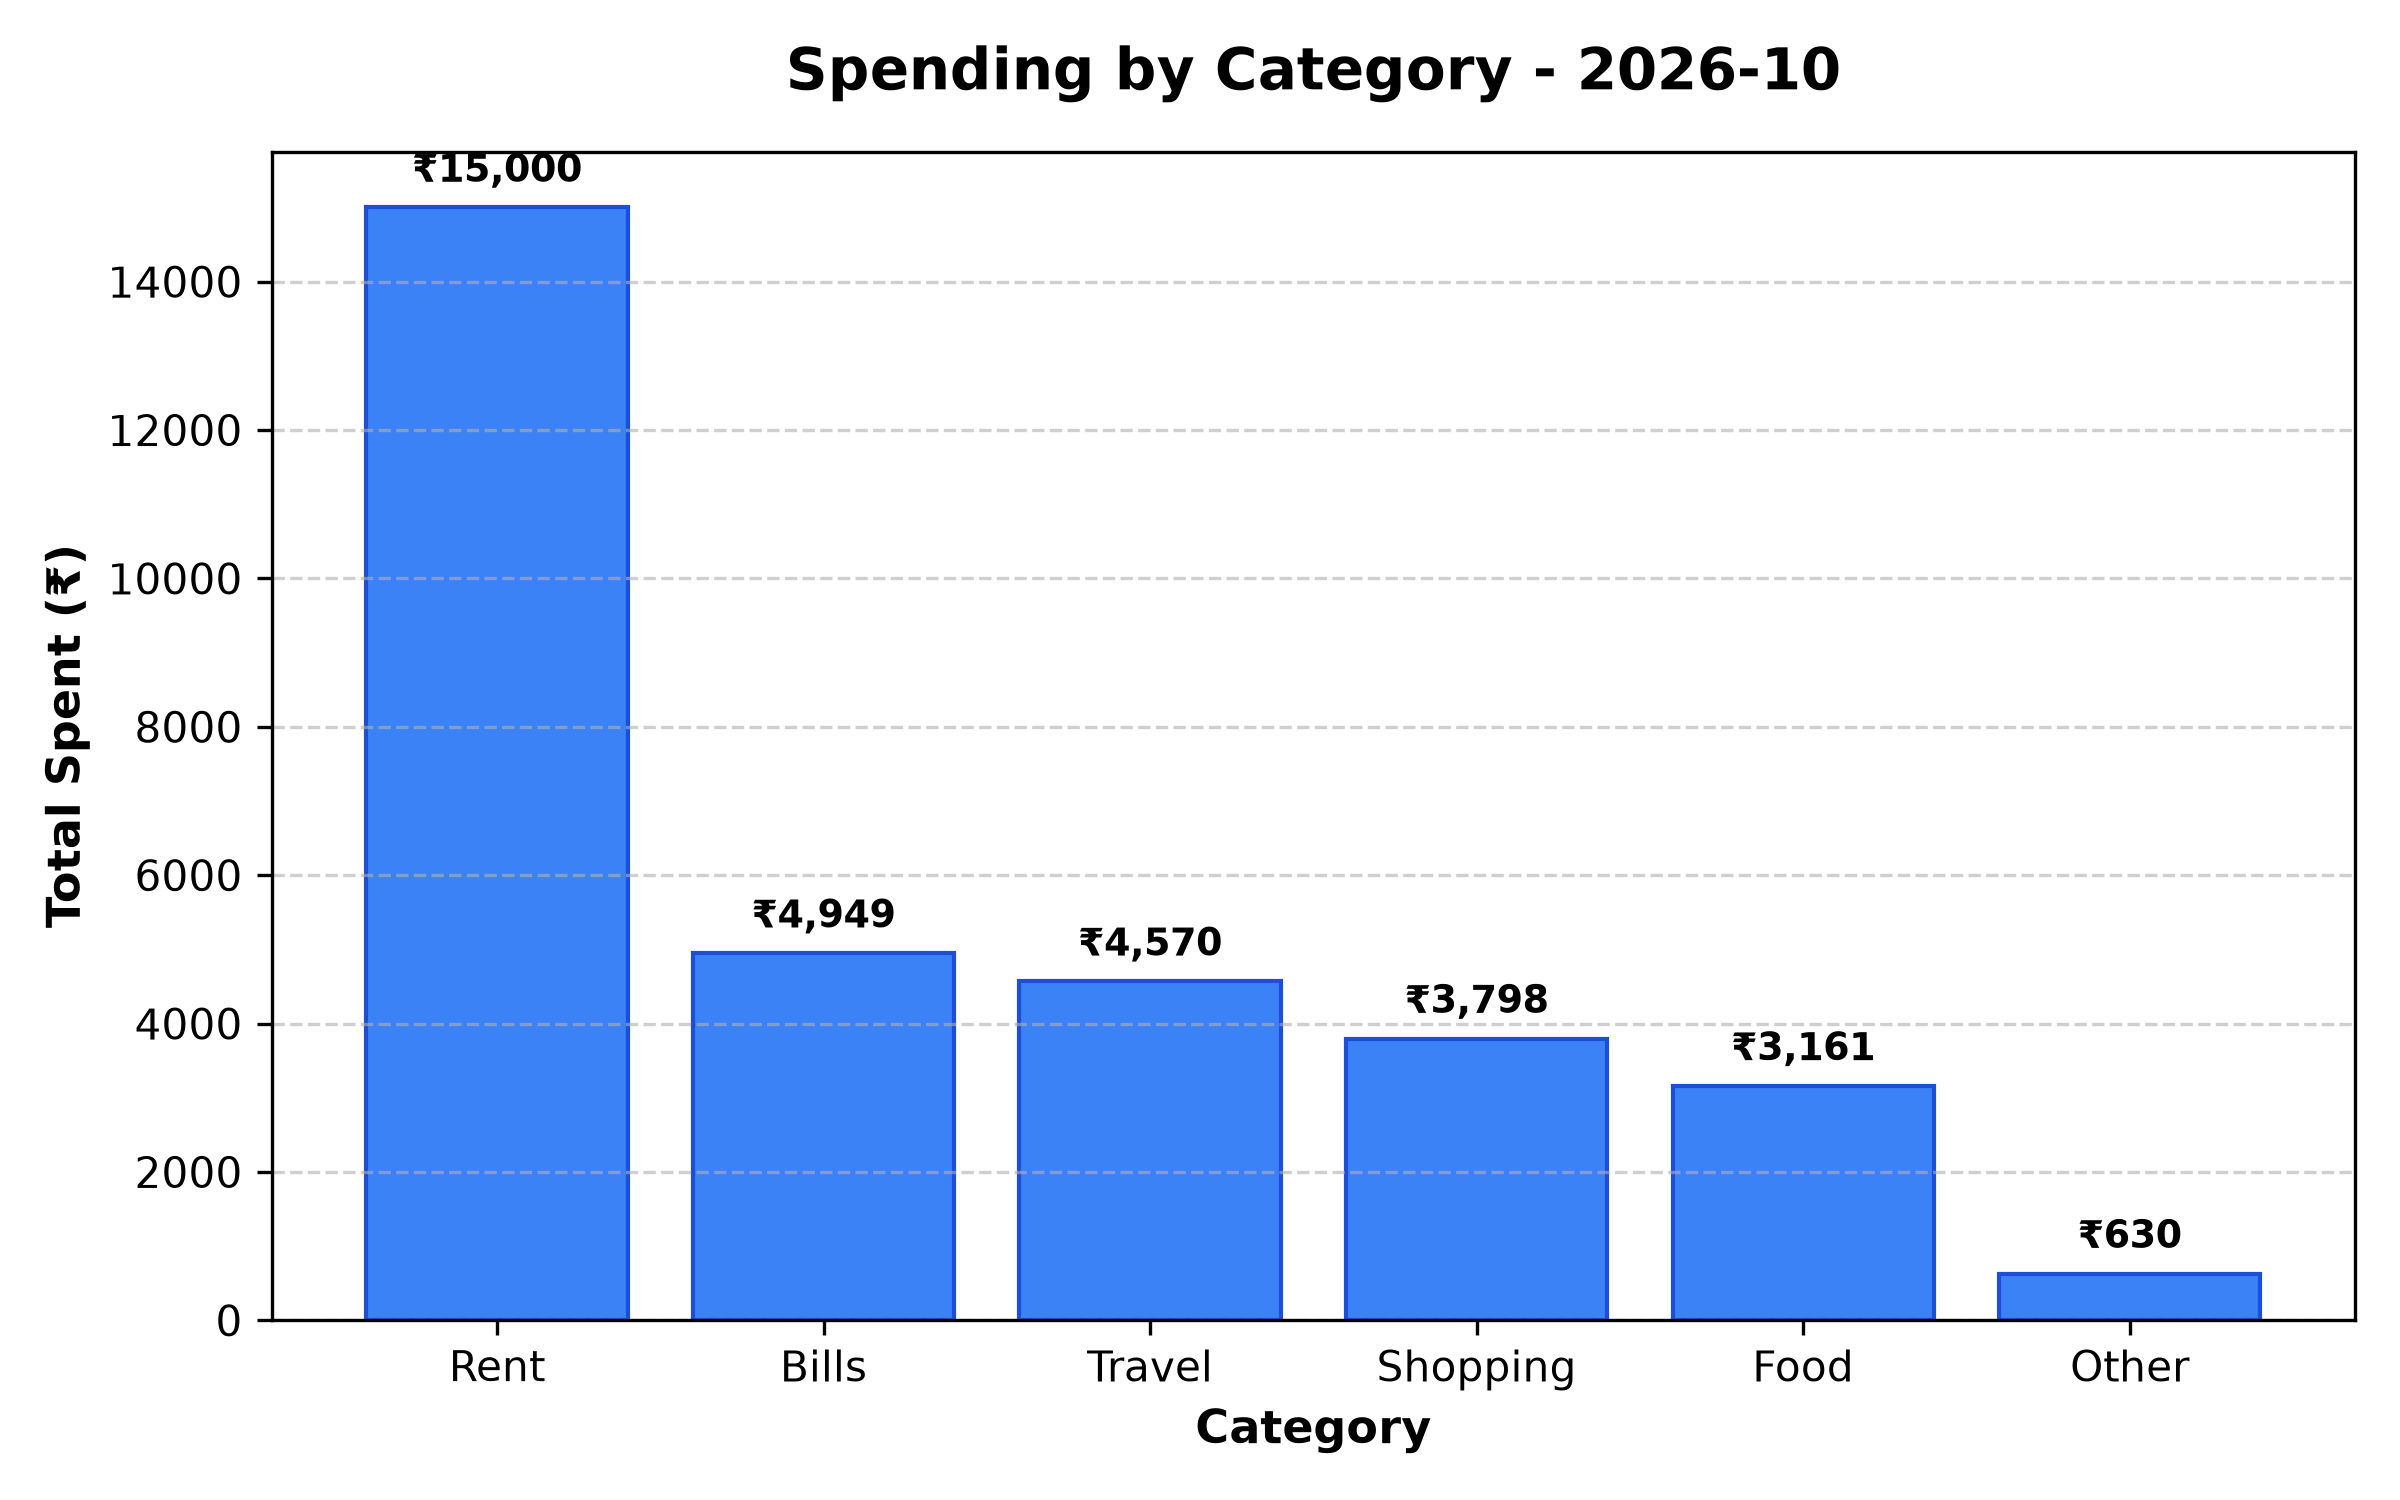
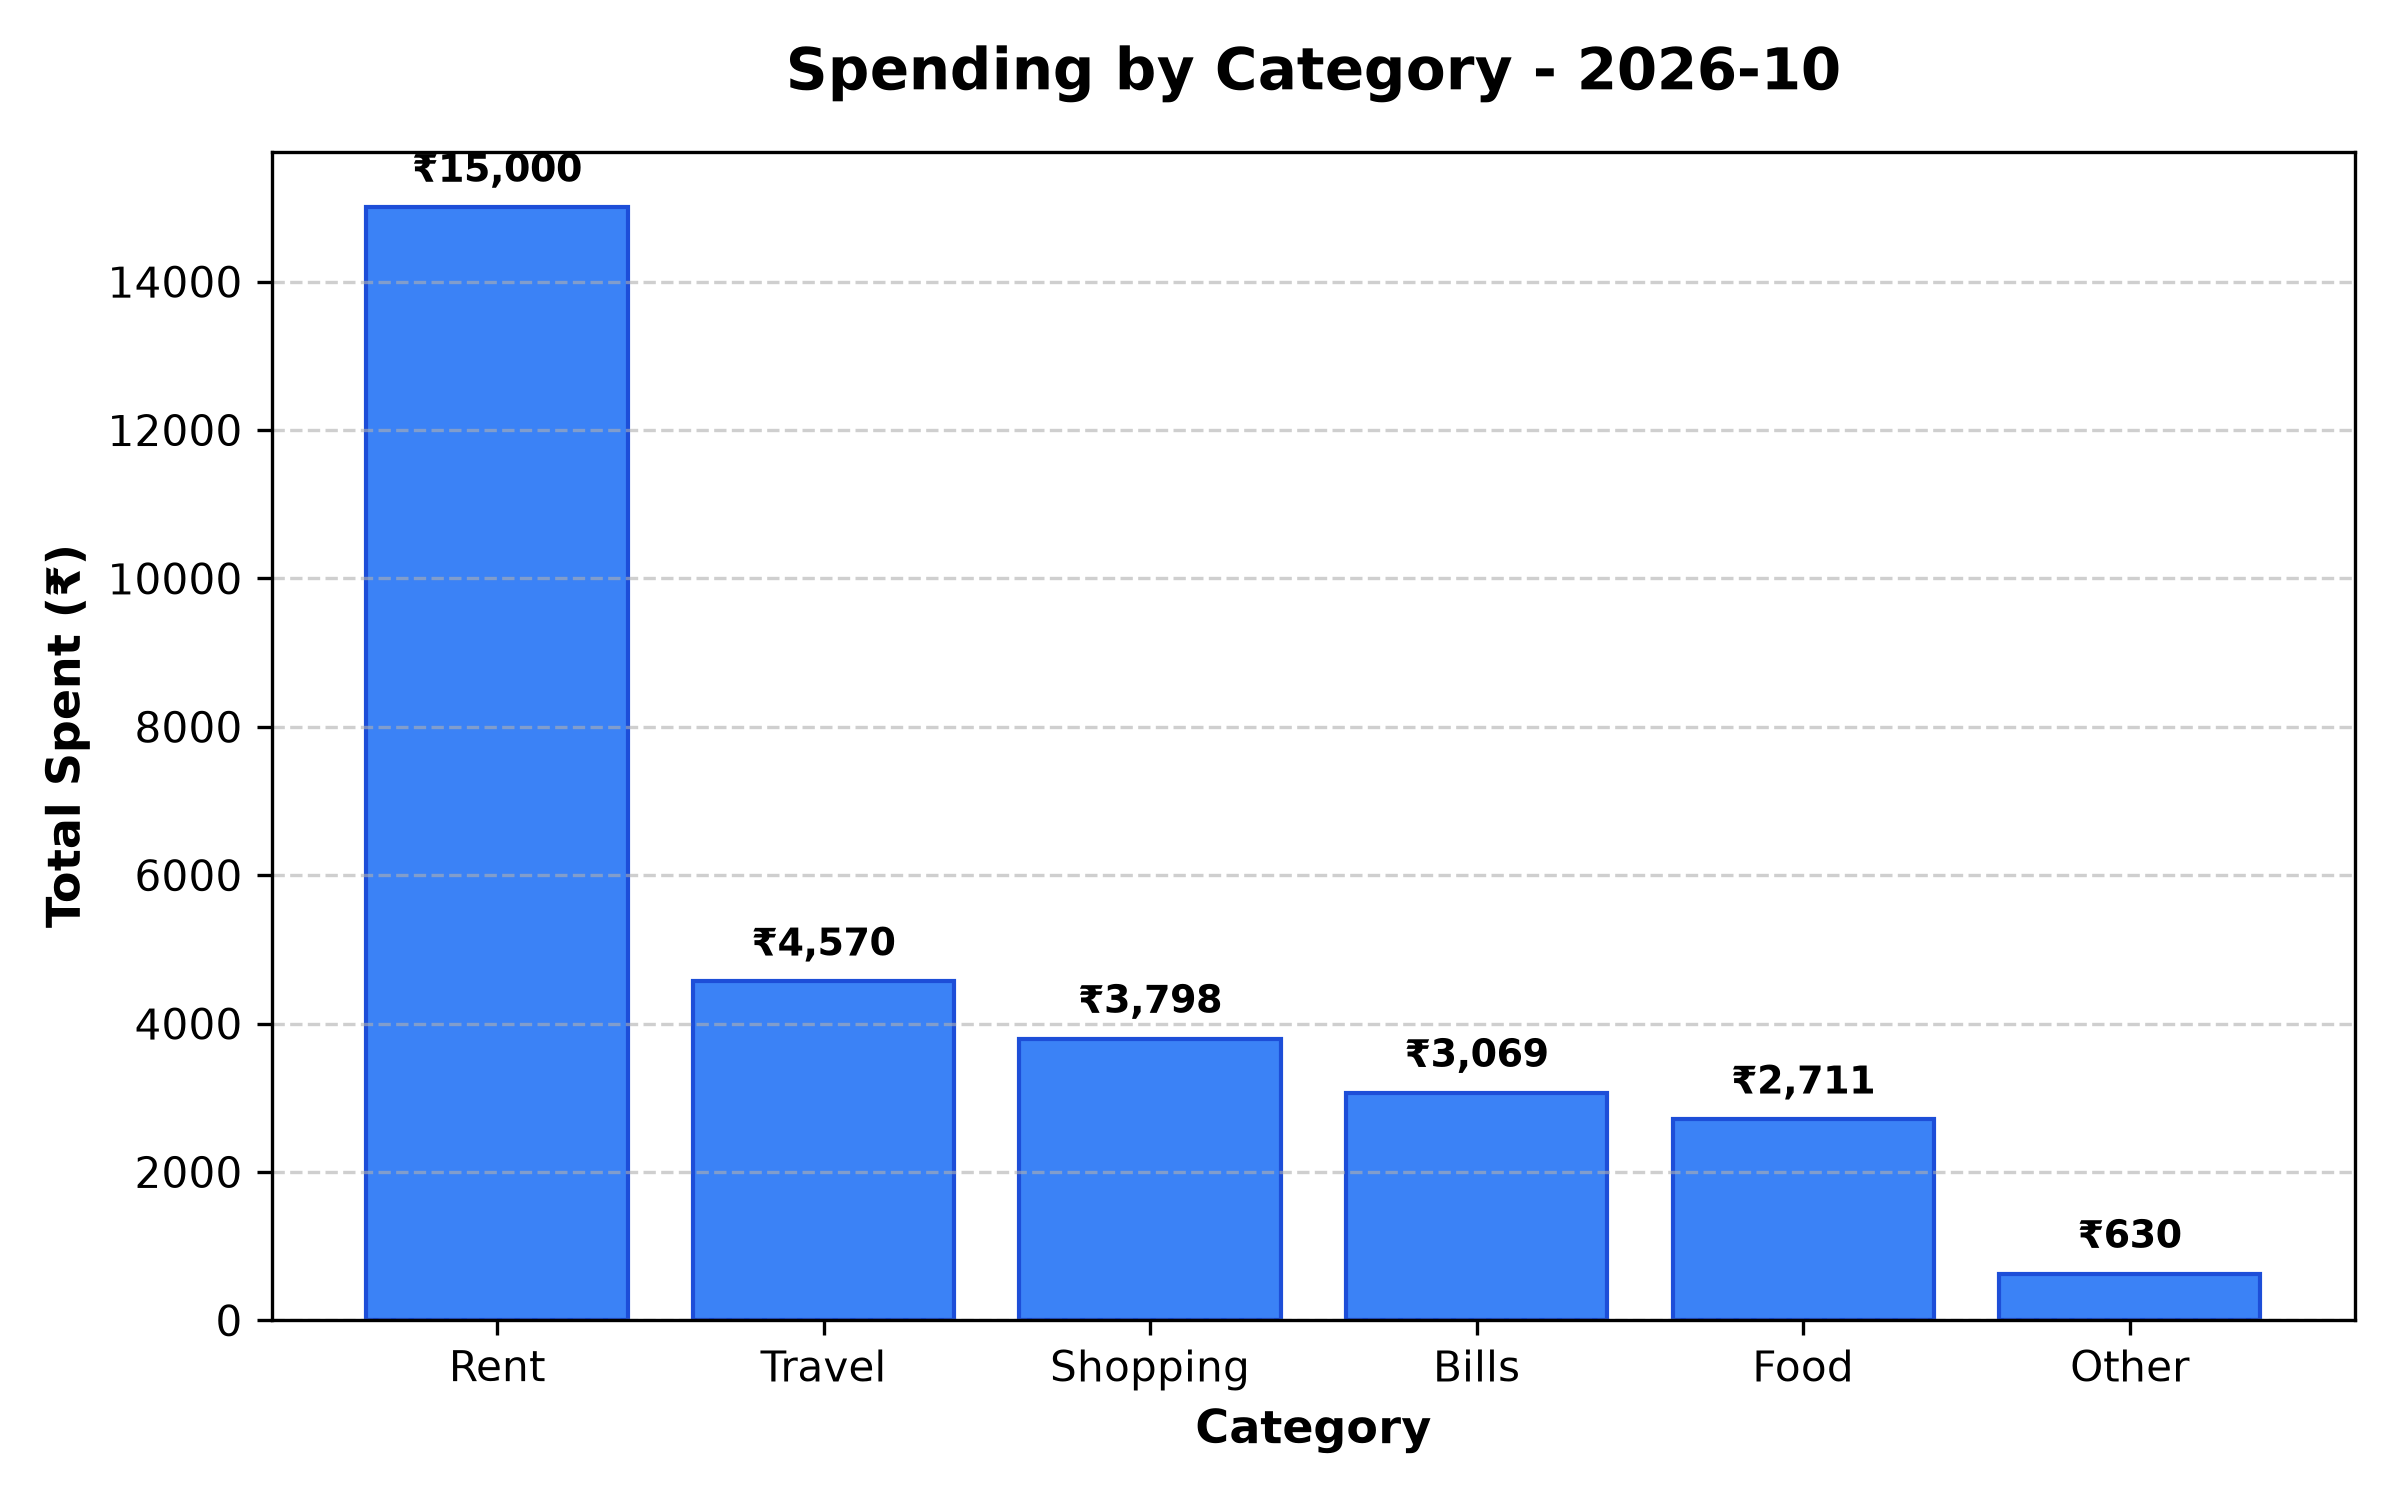
Now report will also be exported in csv file when report command is used in export command

diff --git a/expense_tracker/csv_tools.py b/expense_tracker/csv_tools.py
@@ -143,6 +143,63 @@ def import_csv(conn: sqlite3.Connection, file_path: str, rejected_out_path: str 
     }
 
 
+def export_with_side_report(conn: sqlite3.Connection, output_path: str, month: Optional[str] = None, category: Optional[str] = None) -> int:
+    """Export expenses to CSV side-by-side with the monthly category breakdown report."""
+    from expense_tracker.reports import generate_monthly_report
+
+    expenses = list_expenses(conn, month=month, category=category)
+    os.makedirs(os.path.dirname(os.path.abspath(output_path)), exist_ok=True)
+
+    # 1. Prepare raw expense rows
+    raw_headers = ["id", "date", "amount", "category", "note"]
+    expense_rows = [
+        [exp["id"], exp["date"], f"{exp['amount']:.2f}", exp["category"], exp["note"]]
+        for exp in expenses
+    ]
+
+    # 2. Prepare report side-table rows
+    report_headers = ["Report Category", "Count", "Total (₹)", "Share (%)"]
+    report_rows = []
+
+    if month:
+        report = generate_monthly_report(conn, month)
+        for b in report["breakdown"]:
+            report_rows.append([b["category"], b["count"], f"{b['total']:,.2f}", f"{b['share']:.1f}%"])
+        report_rows.append([])
+        report_rows.append(["Total Count", report["total_count"], "", ""])
+        report_rows.append(["Total Spent", f"₹{report['total_amount']:,.2f}", "", ""])
+    else:
+        # All-time aggregation when no specific month is filtered
+        total_sum = sum(exp["amount"] for exp in expenses)
+        total_count = len(expenses)
+        cat_totals = {}
+        cat_counts = {}
+        for exp in expenses:
+            c = exp["category"]
+            cat_totals[c] = cat_totals.get(c, Decimal("0.00")) + exp["amount"]
+            cat_counts[c] = cat_counts.get(c, 0) + 1
+
+        for c, amt in sorted(cat_totals.items(), key=lambda x: x[1], reverse=True):
+            share = (amt / total_sum * 100) if total_sum > 0 else Decimal("0.0")
+            report_rows.append([c, cat_counts[c], f"{amt:,.2f}", f"{share:.1f}%"])
+        report_rows.append([])
+        report_rows.append(["Total Count", total_count, "", ""])
+        report_rows.append(["Total Spent", f"₹{total_sum:,.2f}", "", ""])
+
+    # 3. Combine headers and rows side-by-side separated by an empty column
+    with open(output_path, mode="w", newline="", encoding="utf-8") as f:
+        writer = csv.writer(f)
+        writer.writerow(raw_headers + [""] + report_headers)
+
+        max_rows = max(len(expense_rows), len(report_rows))
+        for i in range(max_rows):
+            left = expense_rows[i] if i < len(expense_rows) else ["", "", "", "", ""]
+            right = report_rows[i] if i < len(report_rows) else ["", "", "", ""]
+            writer.writerow(left + [""] + right)
+
+    return len(expenses)
+
+
 def save_spending_chart(conn: sqlite3.Connection, month_str: str, output_image_path: str = "output/chart.png") -> Optional[str]:
     """Generate a category spending bar chart using matplotlib (R11 stretch requirement)."""
     try:

diff --git a/expense_tracker/cli.py b/expense_tracker/cli.py
@@ -2,6 +2,7 @@
 
 import argparse
 import sys
+from expense_tracker.csv_tools import export_to_csv, export_with_side_report, import_csv, save_spending_chart
 from expense_tracker.database import (
     add_expense,
     delete_expense,
@@ -97,9 +98,34 @@ def handle_delete(args, conn):
 
 
 def handle_report(args, conn):
-    month = validate_month(args.month)
+    # Safely get attributes that may only exist on sub-commands
+    raw_month = getattr(args, "month", None)
+    raw_category = getattr(args, "category", None)
+    report_cmd = getattr(args, "report_command", None)
+
+    month = validate_month(raw_month) if raw_month else None
+    cat = validate_category(raw_category) if raw_category else None
+
+    # CASE 1: python main.py report export --month 2026-10 ...
+    if report_cmd == "export":
+        out_file = getattr(args, "out", None) or f"output/report_expenses_{month or 'all'}.csv"
+        
+        count = export_with_side_report(conn, out_file, month=month, category=cat)
+        
+        if month:
+            report = generate_monthly_report(conn, month)
+            print(format_report_text(report))
+            
+        print(f"📁 Successfully exported {count} expenses with side-by-side report to '{out_file}'.")
+        return
+
+    # CASE 2: python main.py report --month 2026-10
+    if not month:
+        print("❌ Error: the following arguments are required: --month")
+        return
+
     report = generate_monthly_report(conn, month)
-    print(format_report_text(report))
+    print(format_report_text(report))   
 
 
 def handle_export(args, conn):
@@ -169,9 +195,16 @@ def build_parser():
     p_del = subparsers.add_parser("delete", help="Delete an expense by ID")
     p_del.add_argument("id", type=int, help="Expense ID to delete")
 
-    # report
-    p_rep = subparsers.add_parser("report", help="Generate monthly spending report")
-    p_rep.add_argument("--month", required=True, help="Month to report on (YYYY-MM)")
+    # Inside build_parser() in cli.py
+    p_rep = subparsers.add_parser("report", help="Generate monthly spending report or export it")
+    p_rep.add_argument("--month", help="Month to report on (YYYY-MM)")
+    p_rep.add_argument("--category", help="Filter by category")  # <--- ensures args.category always exists
+
+    rep_subparsers = p_rep.add_subparsers(dest="report_command")
+    p_rep_exp = rep_subparsers.add_parser("export", help="Export expenses alongside report summary")
+    p_rep_exp.add_argument("--month", help="Month to report on (YYYY-MM)")
+    p_rep_exp.add_argument("--category", help="Filter by category")
+    p_rep_exp.add_argument("--out", help="Output CSV file path")
 
     # export
     p_exp = subparsers.add_parser("export", help="Export expenses to CSV")
